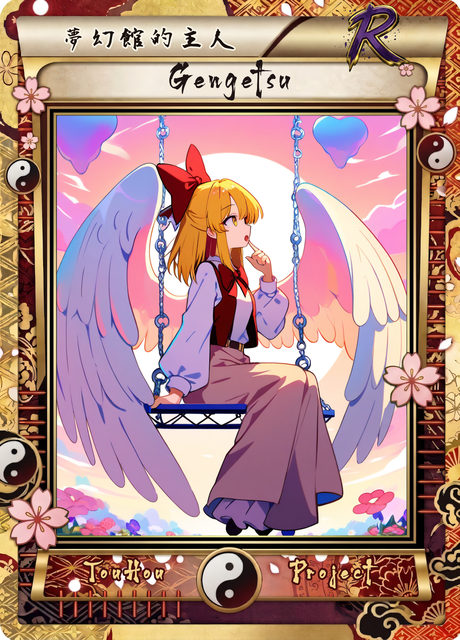
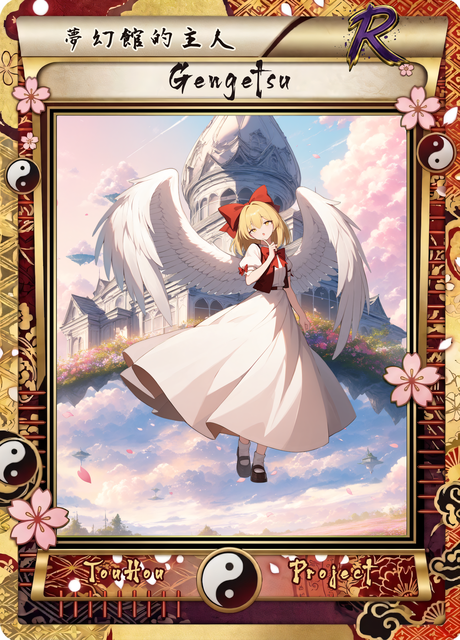
feat: 0.34.006 幻月 R / SR / SSR 卡面

diff --git a/tools/card_art/layered/hd_card.py b/tools/card_art/layered/hd_card.py
@@ -1076,6 +1076,51 @@ LAYERS = {
                           "motion lines, petals, danmaku, magic circle, multiple scythes"),
         "char_scale": 0.8,
     },
+    # 幻月 R / SR / SSR (TH04 舊卡重生)：外觀沿用 make_workflow.BASE["gengetsu"] (萌娘百科：過肩金色直髮、金瞳、紅色大蝴蝶結、
+    # 淡粉紅長裙 + 棕紅小背心、紅領結、背後白色天使羽翼)；翅膀照大妖精 / 芙蘭 / 小惡魔的做法 ➔ 人物直接帶翅膀一起生、一起去背
+    # (BASE 已經寫了翅膀，不用 inline_wings，char_negative 也不要擋翅膀)；EXTRA_NEGATIVE["gengetsu"] 已擋黑翼 / 蝙蝠翼 / 女僕 (夢月)
+    # R～SSR 沒有彈幕 (舊 SCENES 的金色子彈、發散彈幕、魔砲拿掉)；SSR 的閃光特效由程式加；翅膀很大，人物縮小一點免得翅膀被切
+    ("gengetsu", "R"): {
+        # R「夢幻館的主人」：天然呆 ── 在夢幻館的庭園裡歪頭、手指抵下巴，一臉困惑；翅膀半收、裙擺被風輕輕吹起 (稍有動作)
+        # 背景 = 夢幻世界的庭園 (花圃、白色涼亭、遠方的洋館夢幻館)、浮空小島、粉彩天空與粉紅雲；白天柔光
+        "bg": ("no humans, scenery, eye level, dreamlike garden, flower garden, white gazebo, western mansion in the distance, "
+               "floating islands in the sky, pastel sky, pink clouds, fluffy clouds, flower petals, "
+               "daylight, soft lighting, whimsical, fantasy, highly detailed"),
+        "bg_negative": "1girl, person, human, character, face, wings, feathers, text, watermark, lowres, worst quality, low quality, blurry, frame, border, night, dark",
+        "char": ("standing, head tilt, index finger to chin, puzzled, confused, airhead, blank stare, slightly open mouth, "
+                 "wings half folded, wings slightly spread, skirt swaying, hair swaying, three-quarter view, from side, full body"),
+        "char_negative": ("cleavage, revealing clothes, short dress, skirt lift, upskirt, panties, question mark, "
+                          "danmaku, magic circle, sitting, swing, flowers, multiple girls"),
+        "char_scale": 0.8,
+    },
+    ("gengetsu", "SR"): {
+        # SR「金翼的夢幻魔王」：姊姊的得意氣場 ── 浮在夢幻世界的雲海上抱胸挑眉、從上往下看，翅膀大大張開 (比 R 更有氣勢)
+        # 背景 = 雲海之上的夢幻世界、金色夕陽、遠方浮在雲上的洋館、光線、飄落的金白羽毛 (羽毛只放背景，去背會被切掉)
+        "bg": ("no humans, scenery, above the clouds, sea of clouds, dream world, western mansion floating on clouds in the distance, "
+               "golden sunset, golden sky, glowing white feathers drifting in the air, light rays, bloom, "
+               "majestic, fantasy, highly detailed, intricate details"),
+        "bg_negative": "1girl, person, human, character, face, wings, text, watermark, lowres, worst quality, low quality, blurry, frame, border, night, dark",
+        "char": ("floating, arms crossed, smug, raised eyebrow, proud, confident smile, looking down at viewer, slightly from below, "
+                 "wings spread wide, large white wings fully spread, hair flowing, dress fluttering in the wind, full body"),
+        "char_negative": ("cleavage, revealing clothes, short dress, skirt lift, upskirt, panties, "
+                          "danmaku, bullets, magic circle, multiple girls"),   # 不擋 feathers (會跟羽翼打架)
+        "char_scale": 0.8,
+    },
+    ("gengetsu", "SSR"): {
+        # SSR「漆黑夢幻之支配者」：鬼畜的本性 ── 施展「發狂發散彈幕」的起手：單手往前張開放出力量、狂笑、眼睛發光、
+        # 翅膀全開、頭髮衣服被魔力吹得狂舞，微仰視 (最有動態；彈幕只有 UR/LR，這裡不畫彈幕，閃光由程式加)
+        # 背景 = 崩壞扭曲的夢幻世界：紺色 / 紫色霧氣漩渦的天空、碎裂浮空的島嶼、遠方被紺霧籠罩的洋館、光線 (原作翅膀生氣時帶紺色霧氣)
+        "bg": ("no humans, scenery, distorted dream world, swirling indigo and violet mist, dark blue fog vortex in the sky, "
+               "cracked dreamlike sky, shattered floating islands, floating rubble, western mansion silhouette shrouded in blue mist, "
+               "twilight, purple and deep blue, light rays, bloom, epic, ominous, majestic, highly detailed, intricate details"),
+        "bg_negative": "1girl, person, human, character, face, wings, text, watermark, lowres, worst quality, low quality, blurry, frame, border, danmaku, bullets",
+        "char": ("floating, dynamic pose, one arm outstretched forward, open palm, releasing power, casting magic, "
+                 "sadistic smile, evil grin, crazy laugh, glowing eyes, from below, "
+                 "wings spread wide, large white wings fully spread, hair flowing wildly, dress fluttering violently, dynamic angle, full body"),
+        "char_negative": ("cleavage, revealing clothes, short dress, skirt lift, upskirt, panties, "
+                          "danmaku, bullets, magic circle, beam, energy ball, aura, mist, multiple girls"),
+        "char_scale": 0.8,
+    },
 }
 
 

diff --git a/Utils/version.py b/Utils/version.py
@@ -6,4 +6,4 @@
 
 每次 commit 都要更新這裡和 CHANGELOG.md。
 """
-VERSION = "0.34.005"
+VERSION = "0.34.006"

diff --git a/CHANGELOG.md b/CHANGELOG.md
@@ -13,6 +13,11 @@
 
 ---
 
+## 0.34.006 — 2026-11-14：幻月 R / SR / SSR 卡面
+- 高清分層 (筆電)：R「夢幻館的主人」B2C2 (浮空白色洋館，天然呆)、SR「金翼的夢幻魔王」B2C4、SSR「漆黑夢幻之支配者」B1C4。人物直接帶翅膀 (寫在 BASE)，char_scale 0.8。
+- 翅膀被切：內建 wf-outpaint 會畫出深灰背景、多長翼尖 ➔ 改用神綺那套 (縮小貼白底 → OpenCV inpaint 往外抹顏色引導 → SetLatentNoiseMask 只重畫外圍 denoise 0.9)，各出 2 張讓使用者挑 (SR-2、SSR-1)；SSR-1 腳邊多出的鞋子碎片先塗白再 wf-up (種子 9901)。
+- 坑：去背 (cutout) 跟 ComfyUI 同時佔記憶體，筆電當機一次 ➔ 關掉 ComfyUI 後依序跑 char / compose 就正常。
+
 ## 0.34.005 — 2026-11-15：艾莉角色名片「向日葵下的門番」(桌機)
 - **🖼 艾莉**：夏日午後側躺在高大的向日葵底下睡著，低角度、前景大朵向日葵 (使用者選第 2 張)。場景用向日葵花田 (夢幻館旁)，跟里香的黃昏波斯菊做區隔。顯示用 `elly.jpg`、說明已加上；原圖 `elly_full.jpg` 2.0MB + `elly.png` 8.9MB 傳到私人頻道。
 - 設定表的「鐮刀插在地上遮陽」模型畫不出來 (只有平放)，使用者選的這張鐮刀只露一小段，照里香的原則不硬補。

diff --git a/TODO.md b/TODO.md
@@ -30,7 +30,7 @@
 | TH03 | 千百合 chiyuri | N / R / SR | ✅ 0.31.009 |
 | TH03 | 夢美 yumemi | R / SR / SSR | ✅ 0.31.009 (三張都使用者 PhotoCraft 手修) |
 | TH04 | 艾莉 elly | N / R / SR | ✅ 0.34.001 (N 人物往下移，腳踩到石板路) |
-| TH04 | 幻月 gengetsu | R / SR / SSR | 全部重生 (有翅膀 ➔ 翅膀分層) |
+| TH04 | 幻月 gengetsu | R / SR / SSR | ✅ 0.34.006 (人物直接帶翅膀；SR / SSR 翅膀補邊) |
 | TH04 | 夢月 mugetsu | N / R / SR | 全部重生 |
 | TH05 | 愛麗絲 alice | SR / SSR / UR | 全部重生 (舊作外觀) |
 | TH05 | 露易絲 luize | N / R / SR | ✅ 0.30.015 (桌機) |
